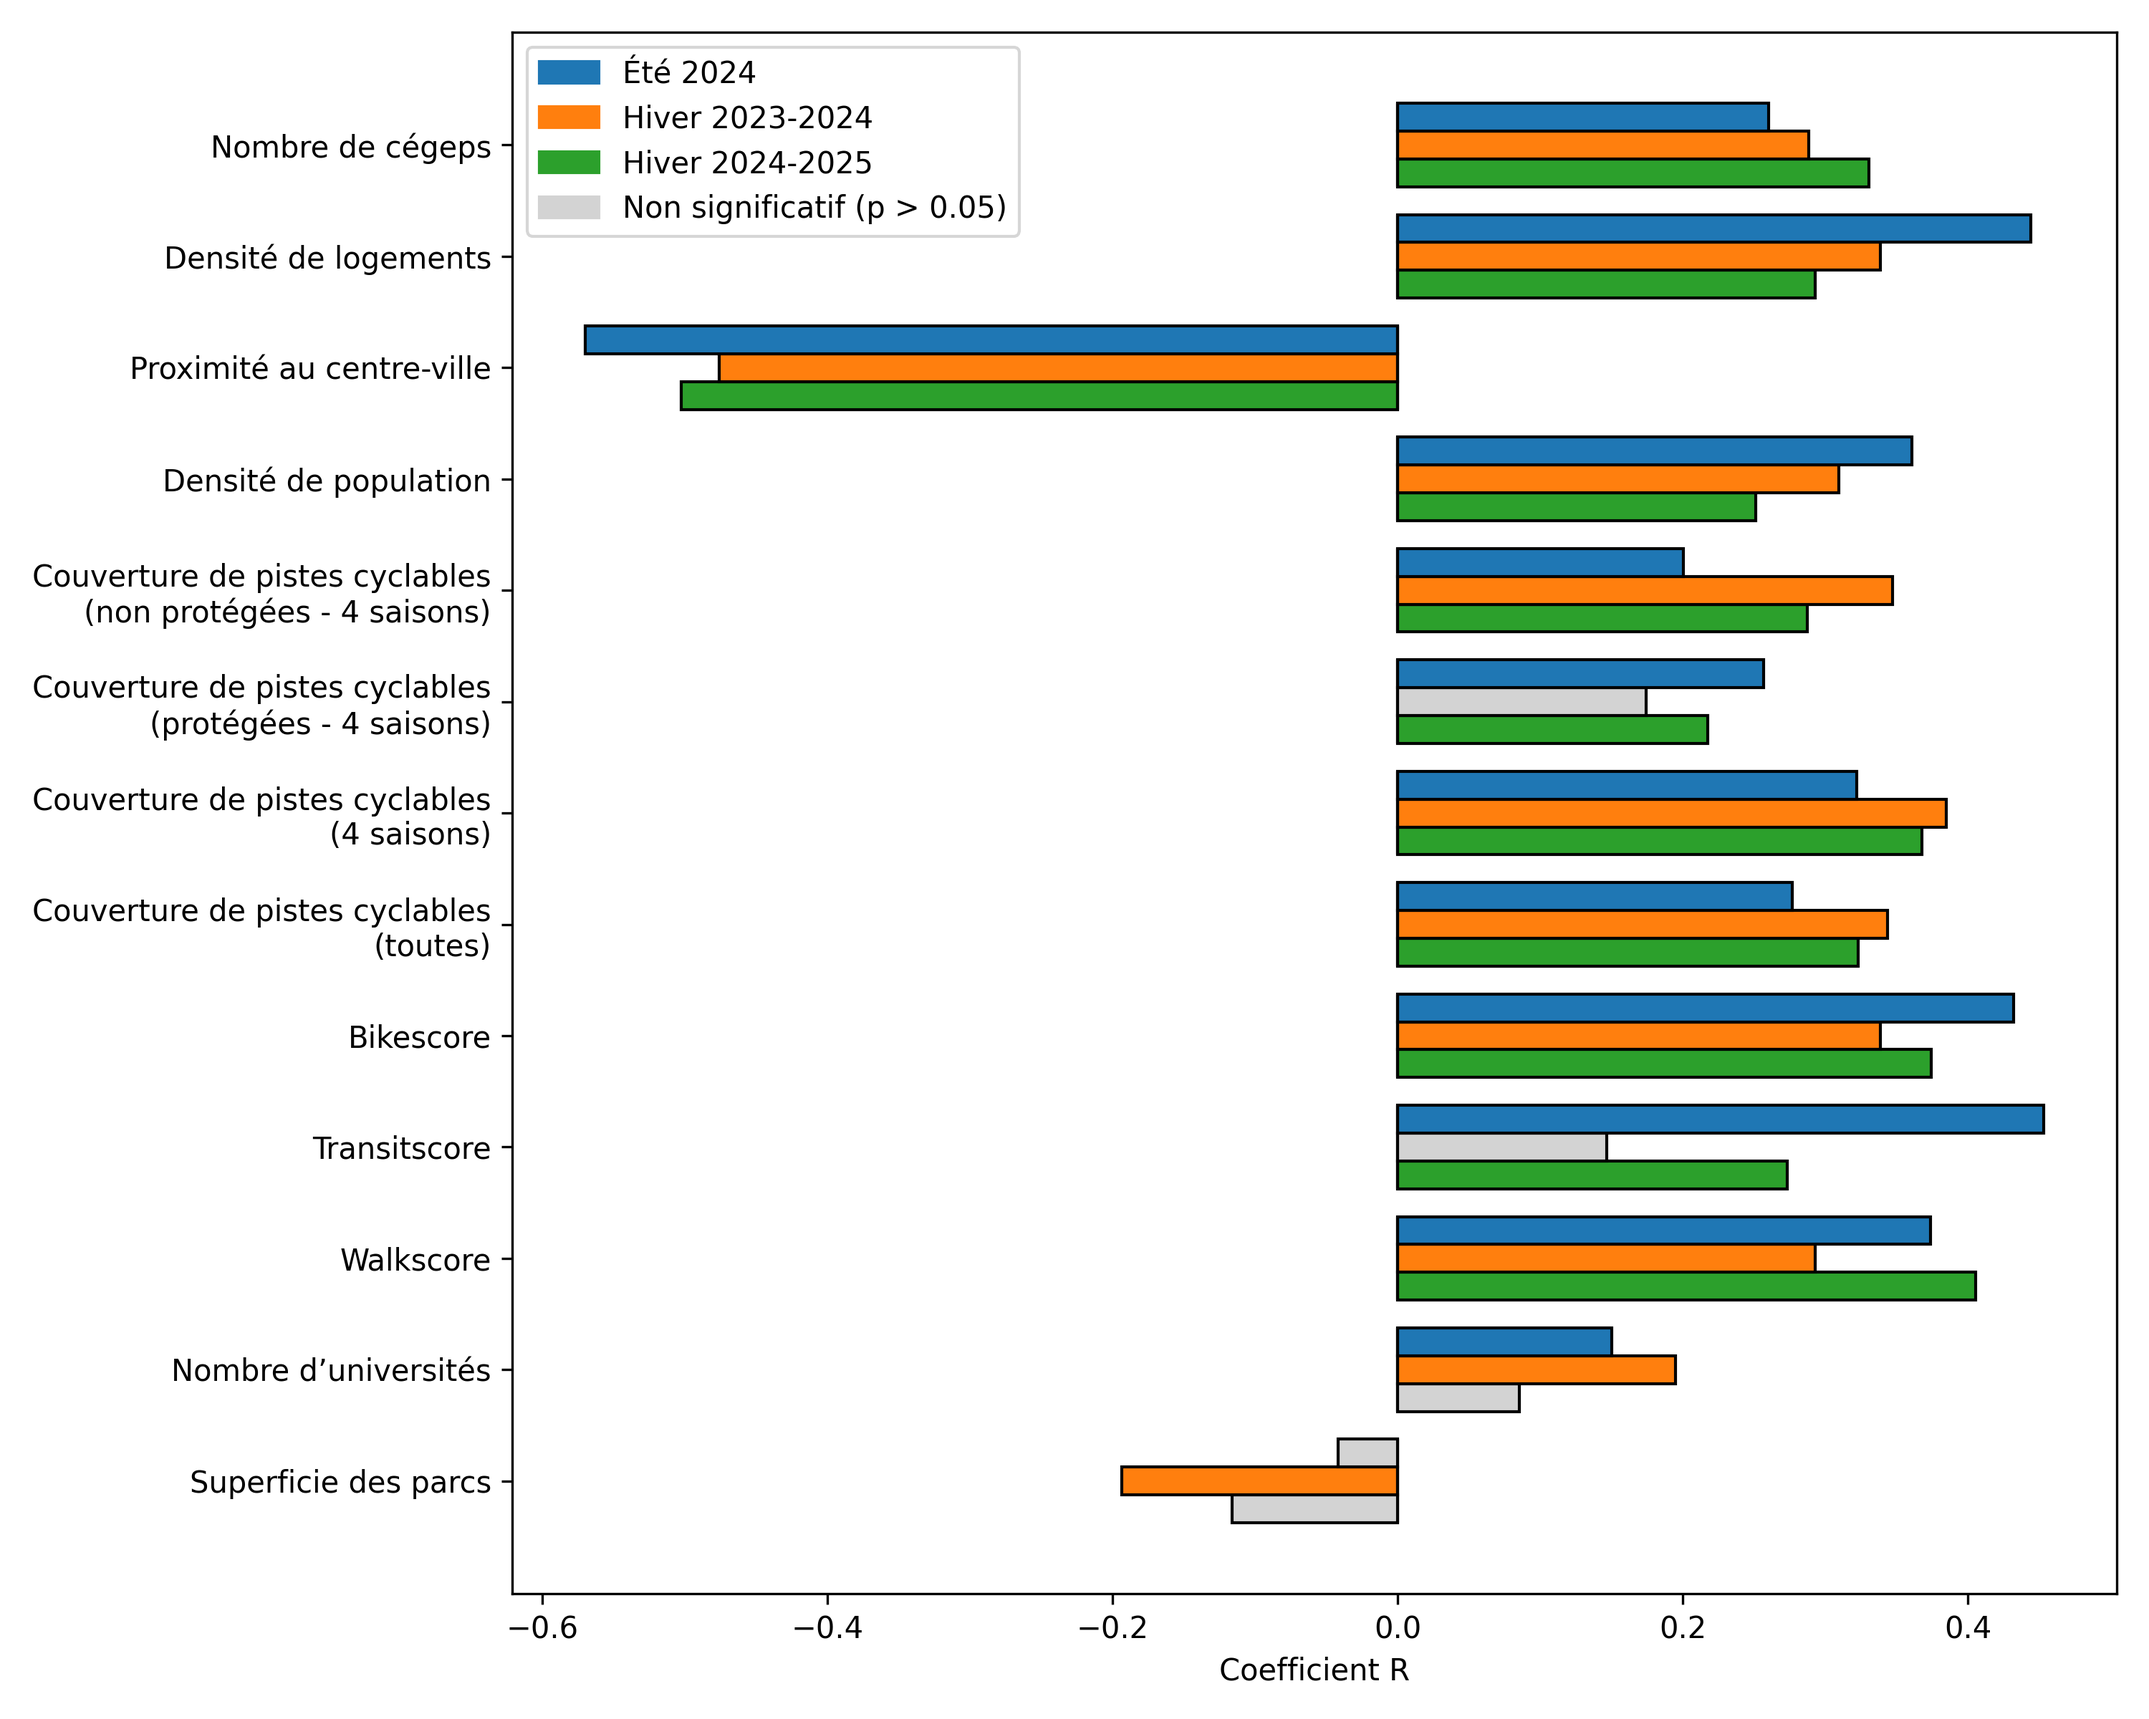
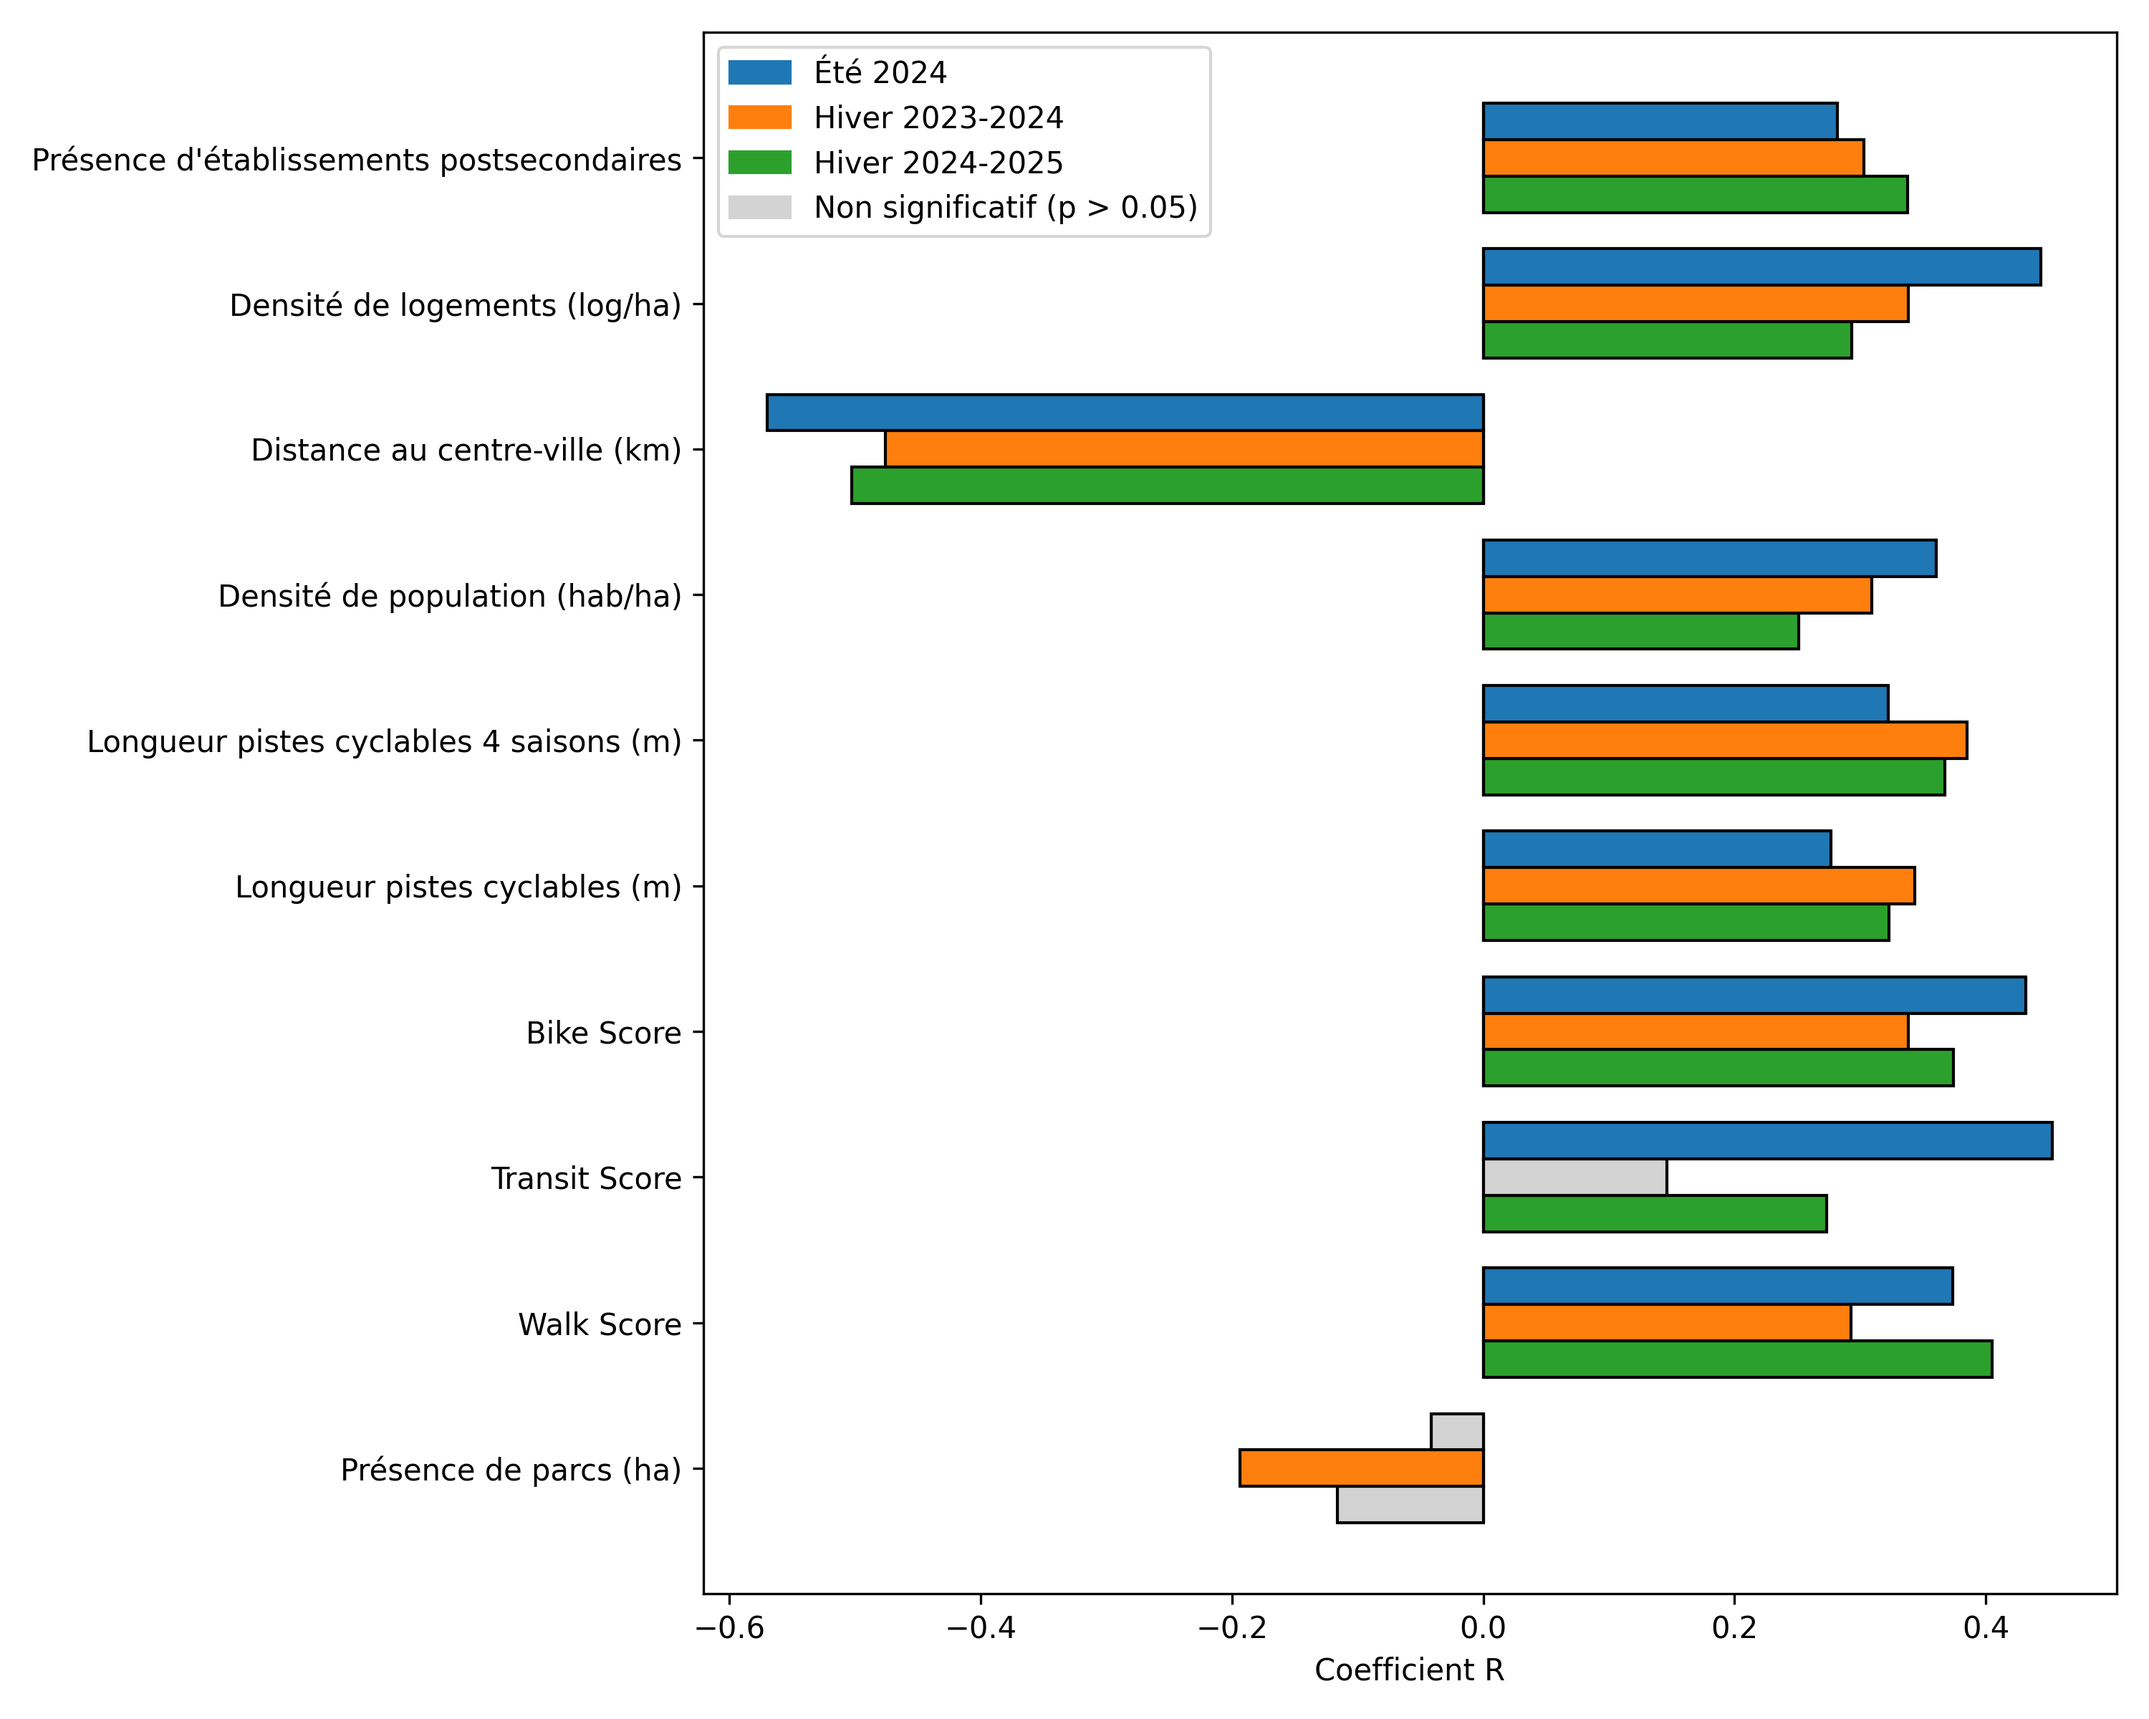
redo corr comp graph

diff --git a/scripts/visuals/corr_comp_graph.py b/scripts/visuals/corr_comp_graph.py
@@ -6,19 +6,20 @@ from scipy.stats import spearmanr
 
 # Dictionnaire x_variable → description
 dict_nom = {
-    "aire_parc": "Superficie des parcs",
-    "nombre_uni": "Nombre d’universités",
-    "walk_sc_mo": "Walkscore",
-    "tran_sc_mo": "Transitscore",
-    "bike_sc_mo": "Bikescore",
-    "l_m": "Couverture de pistes cyclables\n(toutes)",
-    "l4s_m": "Couverture de pistes cyclables\n(4 saisons)",
-    "p4s_m": "Couverture de pistes cyclables\n(protégées - 4 saisons)",
-    "np4s_m": "Couverture de pistes cyclables\n(non protégées - 4 saisons)",
-    "densite_es": "Densité de population",
-    "distance_c": "Proximité au centre-ville",
-    "densite_lo": "Densité de logements",
-    "nb_cegep": "Nombre de cégeps"
+    "aire_parc": "Présence de parcs (ha)",
+    #"nombre_uni": "Nombre d'universités",
+    "walk_sc_mo": "Walk Score",
+    "tran_sc_mo": "Transit Score",
+    "bike_sc_mo": "Bike Score",
+    "l_m": "Longueur pistes cyclables (m)",
+    "l4s_m": "Longueur pistes cyclables 4 saisons (m)",
+    #"p4s_m": "Longueur pistes cyclables 4 saisons protégées (m)",
+    #"np4s_m": "Longueur pistes cyclables 4 saisons non protégées (m)",
+    "densite_es": "Densité de population (hab/ha)",
+    "distance_c": "Distance au centre-ville (km)",
+    "densite_lo": "Densité de logements (log/ha)",
+   # "nb_cegep": "Nombre de cégeps",
+    "nb_ec_supp": "Présence d'établissements postsecondaires"
 }
 
 # Couleurs et paramètres
